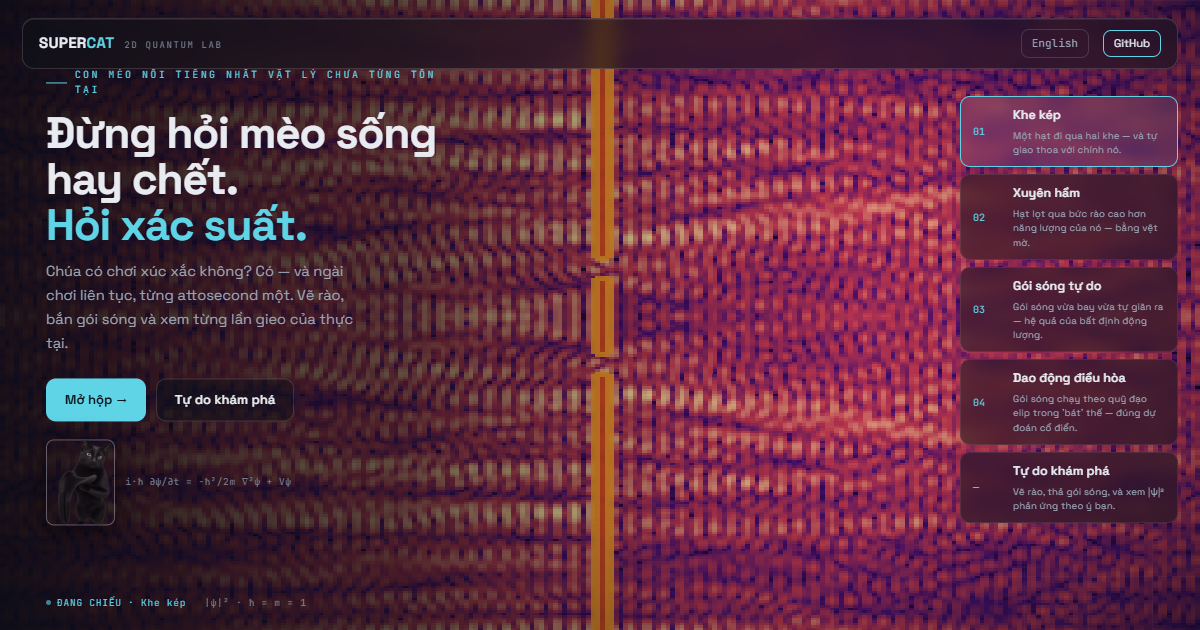
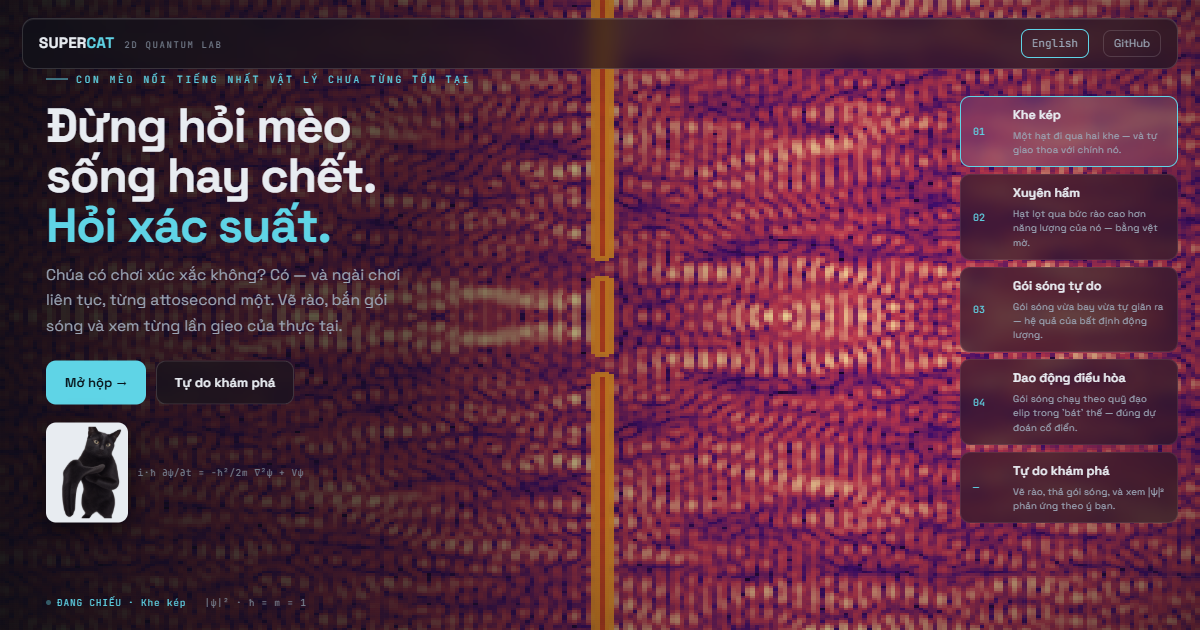
fix(web): polaroid mat for the cat photo + larger hero type
User feedback round 2 on the live-canvas landing:

- cat photo sits on a light #E8ECF1 polaroid mat (4px padding, 10px
  radius) so it carries its own bright background - visible over
  empty-black backdrop zones, while the existing drop shadow still
  separates it over bright fringes; height 84 -> 92px; the cat itself
  stays pitch black (that IS the meme)
- hero h1 44 -> 48px, column max-width 400 -> 450px, desc 14.5 ->
  15.5px / 36ch; text-wrap: balance keeps both locales' long first
  line breaking evenly instead of orphaning a last word
- og.png recaptured with the new hero

Verified: vi + en wrap balanced (no orphan), mat renders clean, unit
232/232, svelte-check 0/0.

diff --git a/web/src/ui/Landing.svelte b/web/src/ui/Landing.svelte
@@ -355,7 +355,7 @@
     left: 46px;
     top: 50%;
     transform: translateY(-54%);
-    max-width: 400px;
+    max-width: 450px;
   }
 
   /* Entrance (ruling 4): the only `from` state is the animated one — the
@@ -393,10 +393,13 @@
 
   .hero h1 {
     margin: 0 0 12px;
-    font-size: 44px;
+    font-size: 48px;
     line-height: 1.04;
     font-weight: 700;
     letter-spacing: -0.025em;
+    /* Both locales wrap their long first line at this width; balance keeps
+       the ragged edge deliberate instead of orphaning a short last word. */
+    text-wrap: balance;
   }
 
   /* The second title line carries the accent (mockup <em>). */
@@ -406,10 +409,10 @@
 
   .desc {
     margin: 0 0 22px;
-    font-size: 14.5px;
+    font-size: 15.5px;
     line-height: 1.65;
     color: var(--text-2);
-    max-width: 34ch;
+    max-width: 36ch;
   }
 
   .cta {
@@ -474,15 +477,17 @@
   }
 
   /* The scheming cat beside its equation (Supercat rebrand): the meme photo
-     as a small rounded sticker. Light hairline + soft dark drop shadow so
-     the card separates on BOTH extremes of the backdrop — bright fringes
-     (shadow does the work) and empty black (the light border does). */
+     as a polaroid sticker — a light mat the photo carries with it, so the
+     card stays bright on empty-black backdrop zones while the soft dark
+     drop shadow separates it over bright fringes. The cat itself stays
+     pitch black: that IS the meme. */
   .schrodinger .cat {
-    height: 84px;
+    height: 92px;
     width: auto;
     flex: none;
-    border-radius: 8px;
-    border: 1px solid rgba(232, 236, 241, 0.35);
+    padding: 4px;
+    background: #e8ecf1;
+    border-radius: 10px;
     box-shadow: 0 6px 24px rgba(0, 0, 0, 0.55);
     display: block;
   }
